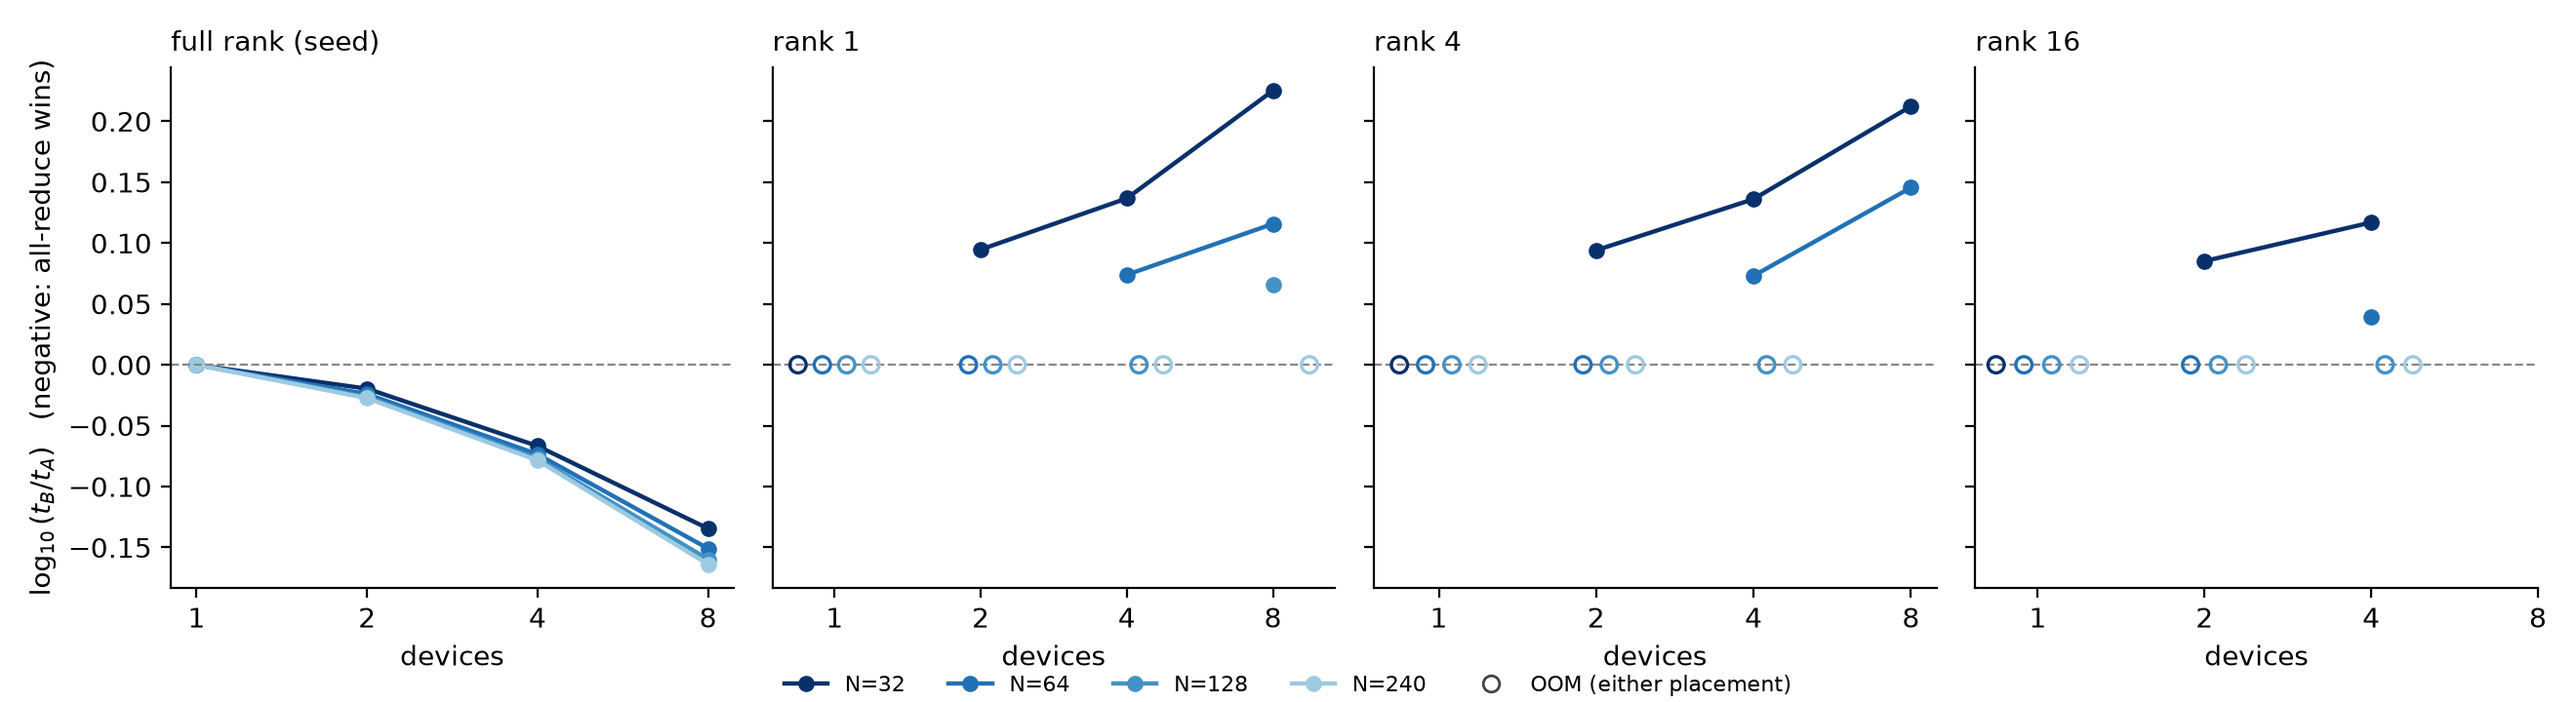
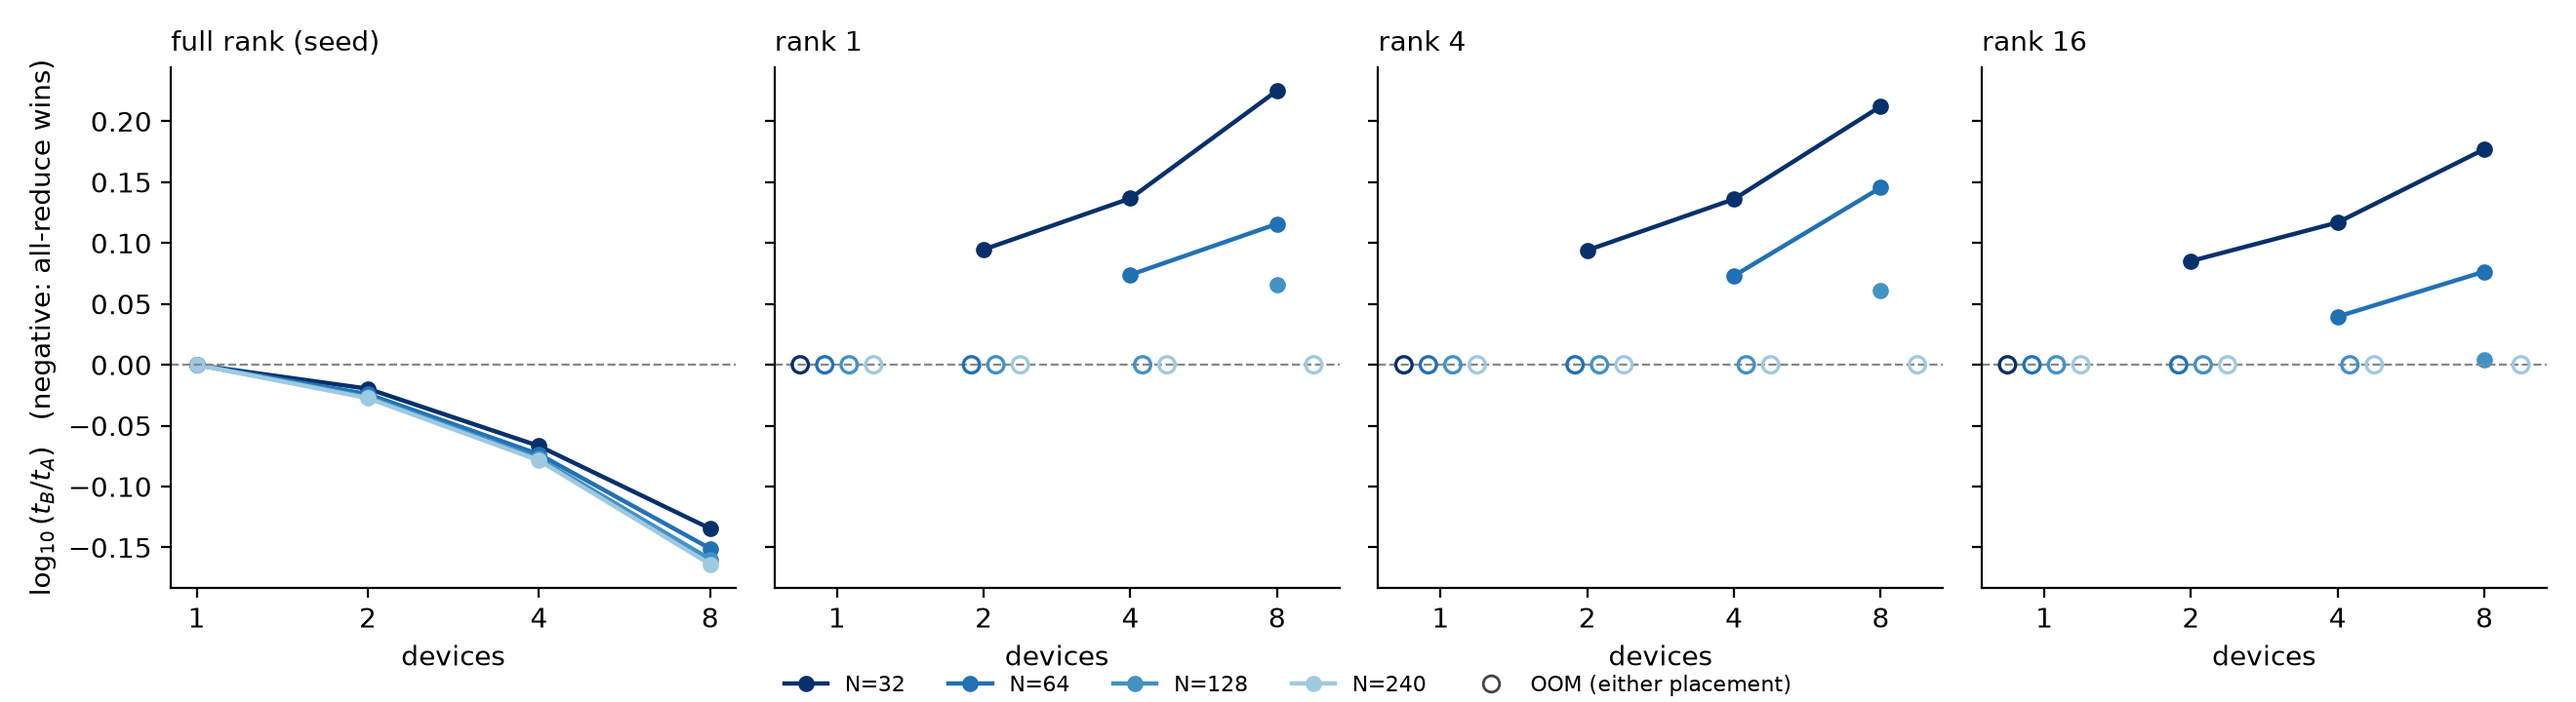
write up E17b: all three frozen predictions, and the one miss
The rank prediction holds (rank 16's D=8 gap is below rank 1's at every
population it fits) and the memory prediction does not: rank changes nothing
about which cells fit. Records the boundary as measured, 30 members per
device over and 16 under, and points at the probe for what the term is.

Also checks, rather than assumes, that the two library files which moved
across the five sessions are inert for these cells.

diff --git a/experiments/countdown/results-e17b/README.md b/experiments/countdown/results-e17b/README.md
@@ -1,0 +1,138 @@
+# E17b: the real-model contraction crossover as a figure. TPU v5e-8, 2026-08-25 to 08-31
+
+All 128 cells of `e17b.yaml` (predictions frozen in its header before any run), five
+free Kaggle TPU v5e-8 sessions, kernel `[account removed]/shardes-e17b-tpu`. One complete
+production update per cell (ask, teacher-forced NLL on E15's frozen batch, tell) on
+Qwen2.5-0.5B, matmul precision highest, 3 warm-ups discarded and 5 timed repeats.
+`plot_e17.py` draws F9. 68 cells timed, 60 recorded OOM.
+
+E17 (`../results-e17/`) measured 31 cells at two populations and two arms; this is the
+same driver over four populations and four arms, which turns the appendix table into a
+main-text figure.
+
+## log10(t_B / t_A), medians. Negative means B wins
+
+| arm | N | D=1 | D=2 | D=4 | D=8 |
+|---|---|---|---|---|---|
+| full rank (seed) | 32 | -0.000 | -0.020 | -0.067 | -0.135 |
+| full rank (seed) | 64 | -0.000 | -0.024 | -0.073 | -0.151 |
+| full rank (seed) | 128 | -0.000 | -0.026 | -0.077 | -0.160 |
+| full rank (seed) | 240 | -0.000 | -0.027 | -0.079 | -0.164 |
+| rank 1 | 32 | OOM | +0.095 | +0.137 | +0.225 |
+| rank 1 | 64 | OOM | OOM | +0.074 | +0.116 |
+| rank 1 | 128 | OOM | OOM | OOM | +0.066 |
+| rank 1 | 240 | OOM | OOM | OOM | OOM |
+| rank 4 | 32 | OOM | +0.094 | +0.136 | +0.212 |
+| rank 4 | 64 | OOM | OOM | +0.073 | +0.146 |
+| rank 4 | 128 | OOM | OOM | OOM | +0.061 |
+| rank 4 | 240 | OOM | OOM | OOM | OOM |
+| rank 16 | 32 | OOM | +0.085 | +0.117 | +0.177 |
+| rank 16 | 64 | OOM | OOM | +0.040 | +0.077 |
+| rank 16 | 128 | OOM | OOM | OOM | +0.004 |
+| rank 16 | 240 | OOM | OOM | OOM | OOM |
+
+## The three frozen predictions
+
+**Seed-regenerated: B wins at every D >= 2, growing with D at every N.** Confirmed at
+all 16 cells. The new populations 64 and 128 land between N=32 and N=240 as predicted,
+and the ordering in N is monotone at every device count. D=1 ties to within 0.05%, as
+it must: no communication, same arithmetic.
+
+**The low-rank arms: A wins, growing with D.** Confirmed at all 14 cells that fit,
+across three ranks and four populations. No sign flip anywhere.
+
+**The gap shrinks as rank grows.** Confirmed. The config froze this as the falsifiable
+one ("a gap LARGER than rank 1's would" contradict the mechanism), and rank 16 is below
+rank 1 at every population it shares: +0.177 against +0.225 at N=32, +0.077 against
++0.116 at N=64, +0.004 against +0.066 at N=128. At N=128, D=8 rank 16 is a tie to 1%,
+the closest the grid comes to a crossover, and it approaches it from A's side without
+crossing. One non-monotonicity: rank 4 at N=64, D=8 is +0.146, above rank 1's +0.116.
+It is the only cell where the ordering in r inverts, and rank 16 is well below both.
+
+A pattern E17 could not see, having only two populations: **the low-rank gap also
+shrinks with N**, from +0.225 at N=32 to +0.066 at N=128 (rank 1, D=8). The seed arm's
+advantage moves the other way, growing with N. Both are the cost model's doing: A's
+saving is per-candidate contraction work and B's cost is a model-sized all-reduce that
+does not grow with the population, so raising N feeds the term that favours B in both
+arms.
+
+## The memory column, and what it is not
+
+Every OOM is a low-rank arm; the seed arm fits all 16 of its cells. The boundary is a
+pure function of members per device and nothing else: **every low-rank cell at 30 or
+more members per device is over HBM, every one at 16 or fewer fits**, identically for
+r=1, 4 and 16 and for both placements. All 60 OOM records are consistent with it,
+including the three measured last.
+
+E17 read this column as the storage-for-compute trade, and `e17b.yaml` froze the
+prediction that "rank 16 is expected to OOM where rank 1 runs at the largest N". **That
+prediction is wrong, and this is the run's one clear miss.** Rank changes nothing: the
+three ranks OOM at the same 27 cells with XLA's reported temporaries agreeing to 0.1%
+(114.58G at r=16, 114.61G at r=1, 114.66G at r=4 for N=128, D=1). Memory that does not
+move with r is not the factors.
+
+`../results-e17b-memory/` prices what it actually is. The term scales with the prompt
+batch, so it is per-member activations, dominated by the `(members, prompts, T-1,
+151936)` logits and the f32 log-softmax over them. What sets how many are live is the
+evaluation: `mirrored_seed` is built as `SeedRegenerated(chunk=1)` and scans one member
+at a time, while `LowRank` has no chunk and evaluates the whole per-device population in
+one vmap, which is exactly where its speed comes from, since the base weight is
+unbatched under vmap so members share one GEMM. Giving the seed arm the low-rank arms'
+batching reproduces their memory curve.
+
+So the trade is real but runs opposite to how E17 told it. The arm with the cheap
+perturbation is the one that runs out of memory, because it buys speed by batching
+members and batching members costs activations. The factors themselves are far too
+small to appear.
+
+This does not touch the ratios above: A and B are the same arm at the same shape, so the
+chunking is common to both and cancels. It does reach cross-arm comparisons. At D=8,
+N=32 the best low-rank configuration is 71.0 ms against the seed arm's 672.6 ms, and
+that 9.5x is between two evaluation strategies as well as two perturbation schemes.
+
+## Best-placement wall clock at D=8, ms
+
+| arm | N=32 | N=64 | N=128 | N=240 |
+|---|---|---|---|---|
+| full rank (seed) | 672.6 | 1276.0 | 2481.7 | 4590.5 |
+| rank 1 | 71.0 | 121.9 | 229.9 | OOM |
+| rank 4 | 72.4 | 119.3 | 227.4 | OOM |
+| rank 16 | 77.8 | 135.8 | 271.9 | OOM |
+
+Ranks 1 and 4 are within 2% of each other at every population; rank 16 costs 10-18%
+more. The seed arm is the only one that reaches N=240, at 4.6 s per update.
+
+## Sessions
+
+Five, because a Kaggle TPU session is capped well below what 128 cells of this size
+need. Per-cell result files plus skip-on-exists make a session resumable, and the
+driver takes a `--budget` so it stops cleanly between cells and exits 2; the kernel
+runs it in repeated slices and stops when the grid is done or a slice adds nothing.
+
+| session | SHA | cells added | total |
+|---|---|---|---|
+| 1 | 1ba0dd0 | 10 | 10 |
+| 2 | e2d275d | 30 | 40 |
+| 3 | 41b04b9 | 53 | 93 |
+| 4 | e6f2c07 | 25 | 118 |
+| 5 | 83e602e | 10 | 128 |
+
+Session 2 was killed mid-cell with no traceback after a run of recorded OOMs, host
+memory rather than HBM. Session 4 spent all four of its slices and stopped with three
+hours of the session unused, which is why the kernel now takes six. Sessions 1 and 2
+also ran the phase-2 regeneration decomposition and contraction isolation as a prelude;
+those results live in `../../phase2/`.
+
+Cells carry the SHA they were measured at, and two library files moved across the five.
+Both are inert here, checked rather than assumed:
+
+- `lowrank.py` gained `PAD_RANK1` at 030732d, which makes the r=1 pad TPU-only where it
+  had been unconditional. Every cell here ran on a v5e, so r=1 is padded on both sides
+  of that change, and the branch is guarded by `a.shape[-1] == 1`, so ranks 4 and 16
+  never reach it at all.
+- `make_mesh` gained a multi-host branch for E18. It triggers only when the chosen
+  devices span more than one process; a single v5e-8 is one process, so every cell here
+  takes the original path.
+
+The remaining diffs are the kernel's slice count and the committed cells the later
+sessions skip over.
